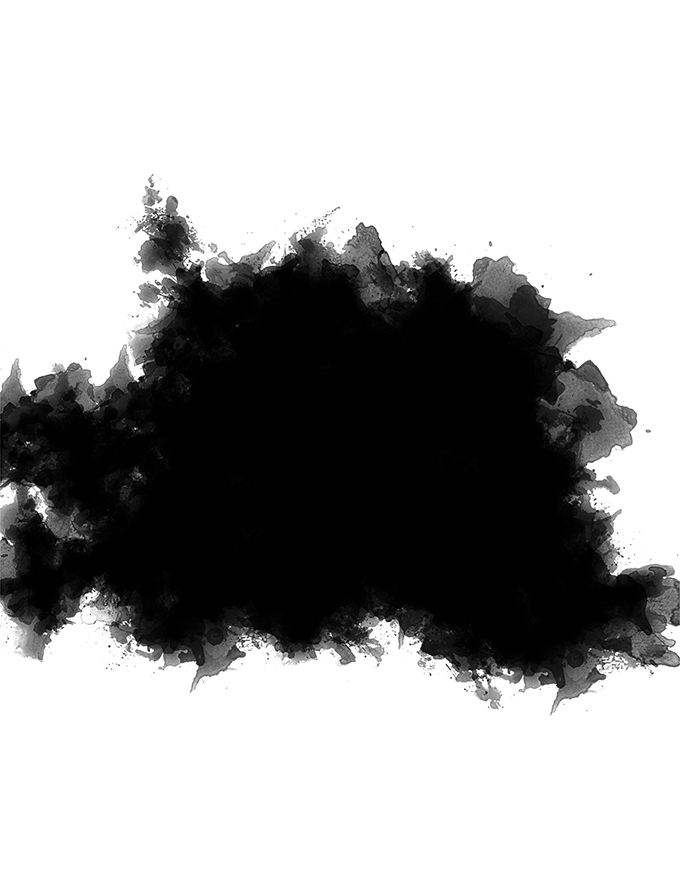
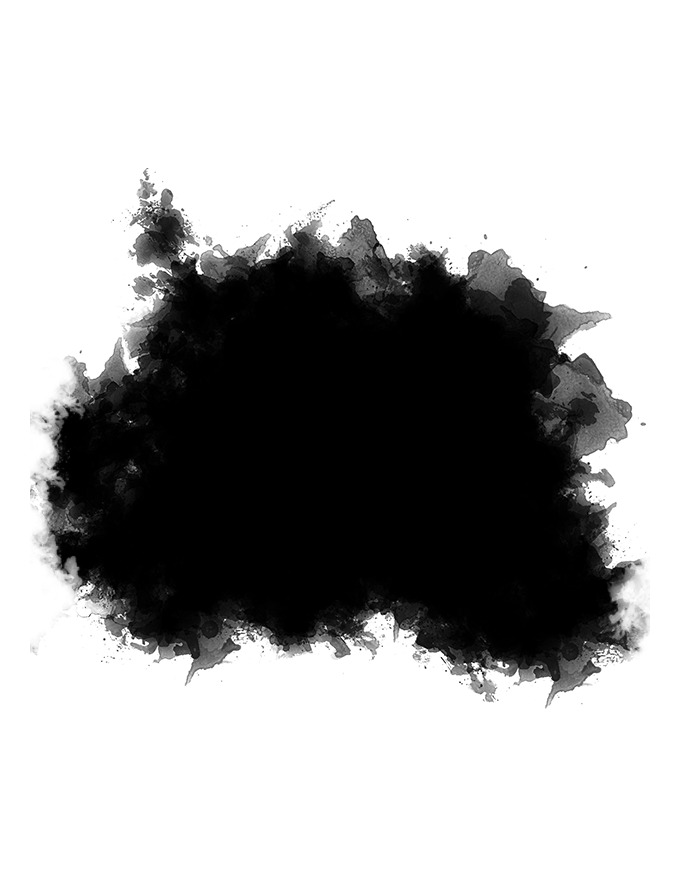
centering + 5 new masks

Changed region(s): [[0.0, 0.1841, 1.0, 0.8284], [0.1853, 0.5216, 0.2162, 0.5523]]

diff --git a/themes/V3/Blank/style.less b/themes/V3/Blank/style.less
@@ -340,6 +340,12 @@ body {
 		&9  { --wc : url(/assets/waterColorMasks/center/0009.webp); }
 		&10 { --wc : url(/assets/waterColorMasks/center/0010.webp); }
 		&11 { --wc : url(/assets/waterColorMasks/center/0011.webp); }
+		&12 { --wc : url(/assets/waterColorMasks/center/0012.webp); }
+		&13 { --wc : url(/assets/waterColorMasks/center/0013.webp); }
+		&14 { --wc : url(/assets/waterColorMasks/center/0014.webp); }
+		&15 { --wc : url(/assets/waterColorMasks/center/0015.webp); }
+		&16 { --wc : url(/assets/waterColorMasks/center/0016.webp); }
+		&special { --wc : url(/assets/waterColorMasks/center/special.webp); }
 	}
 
 

diff --git a/themes/V3/Blank/snippets/imageMask.gen.js b/themes/V3/Blank/snippets/imageMask.gen.js
@@ -4,7 +4,7 @@ const dedent = require('dedent-tabs').default;
 module.exports = {
 	center :()=>{
 		return dedent`
-			{{imageMaskCenter${_.random(1, 10)},--offsetX:0%,--offsetY:0%,--rotation:0;
+			{{imageMaskCenter${_.random(1, 16)},--offsetX:0%,--offsetY:0%,--rotation:0;
 			  ![](https://i.imgur.com/GZfjDWV.png){height:100%}
 			}}
 			<!-- Use --offsetX to shift the mask left or right (can use cm instead of %)
